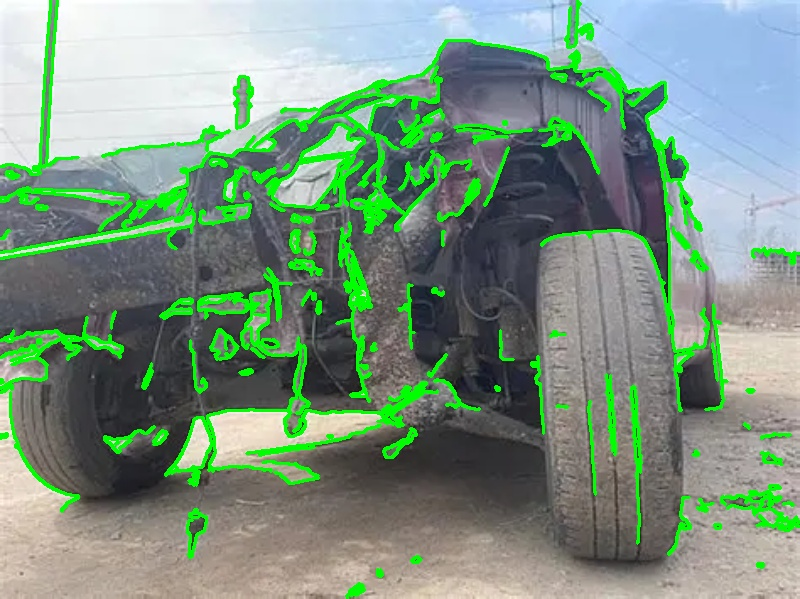
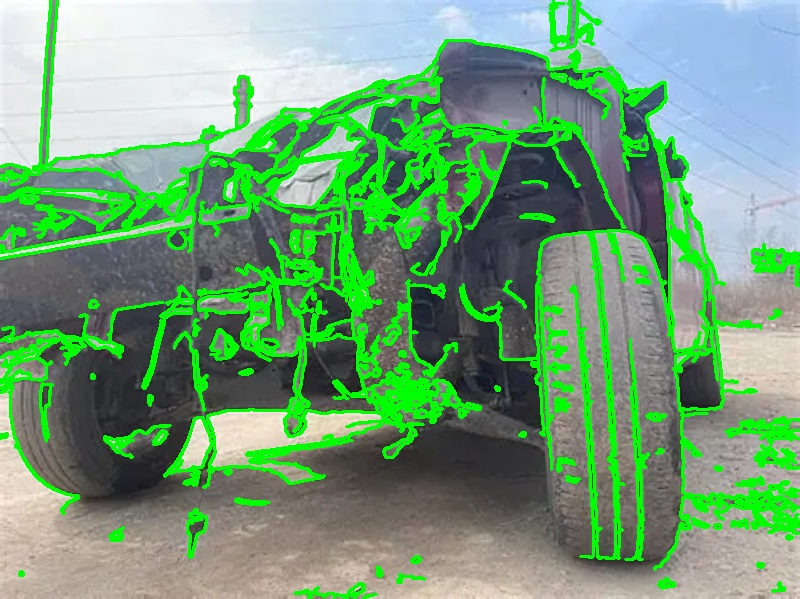
Sprint 5.2 - Completed AI cost estimation module

diff --git a/ai/damage_detector.py b/ai/damage_detector.py
@@ -119,3 +119,26 @@ class DamageDetector:
             return "Medium"
 
         return "High"
+
+    def draw_contours(
+        self,
+        original_image,
+        contours,
+        color=(0, 255, 0),
+        thickness=2,
+    ):
+        """
+        Draw contours on the original image.
+        """
+
+        output = original_image.copy()
+
+        cv2.drawContours(
+            output,
+            contours,
+            -1,
+            color,
+            thickness,
+        )
+
+        return output

diff --git a/ClaimVision_Master_Tracker.md b/ClaimVision_Master_Tracker.md
@@ -922,4 +922,15 @@ Sprint 2 ✅ Claim Management
 Sprint 3 ✅ Image Upload
 Sprint 4 ✅ OpenCV Image Processing
 Sprint 5.1 ✅ Damage Detection
+
 Sprint 5.2 ✅ Cost Estimation
+
+Sprint 5.3 🔄 Fraud Detection
+
+Sprint 5.4 Recommendation Engine
+
+Sprint 6 AI Integration
+
+Sprint 7 Streamlit Dashboard
+
+Sprint 8 Production Ready